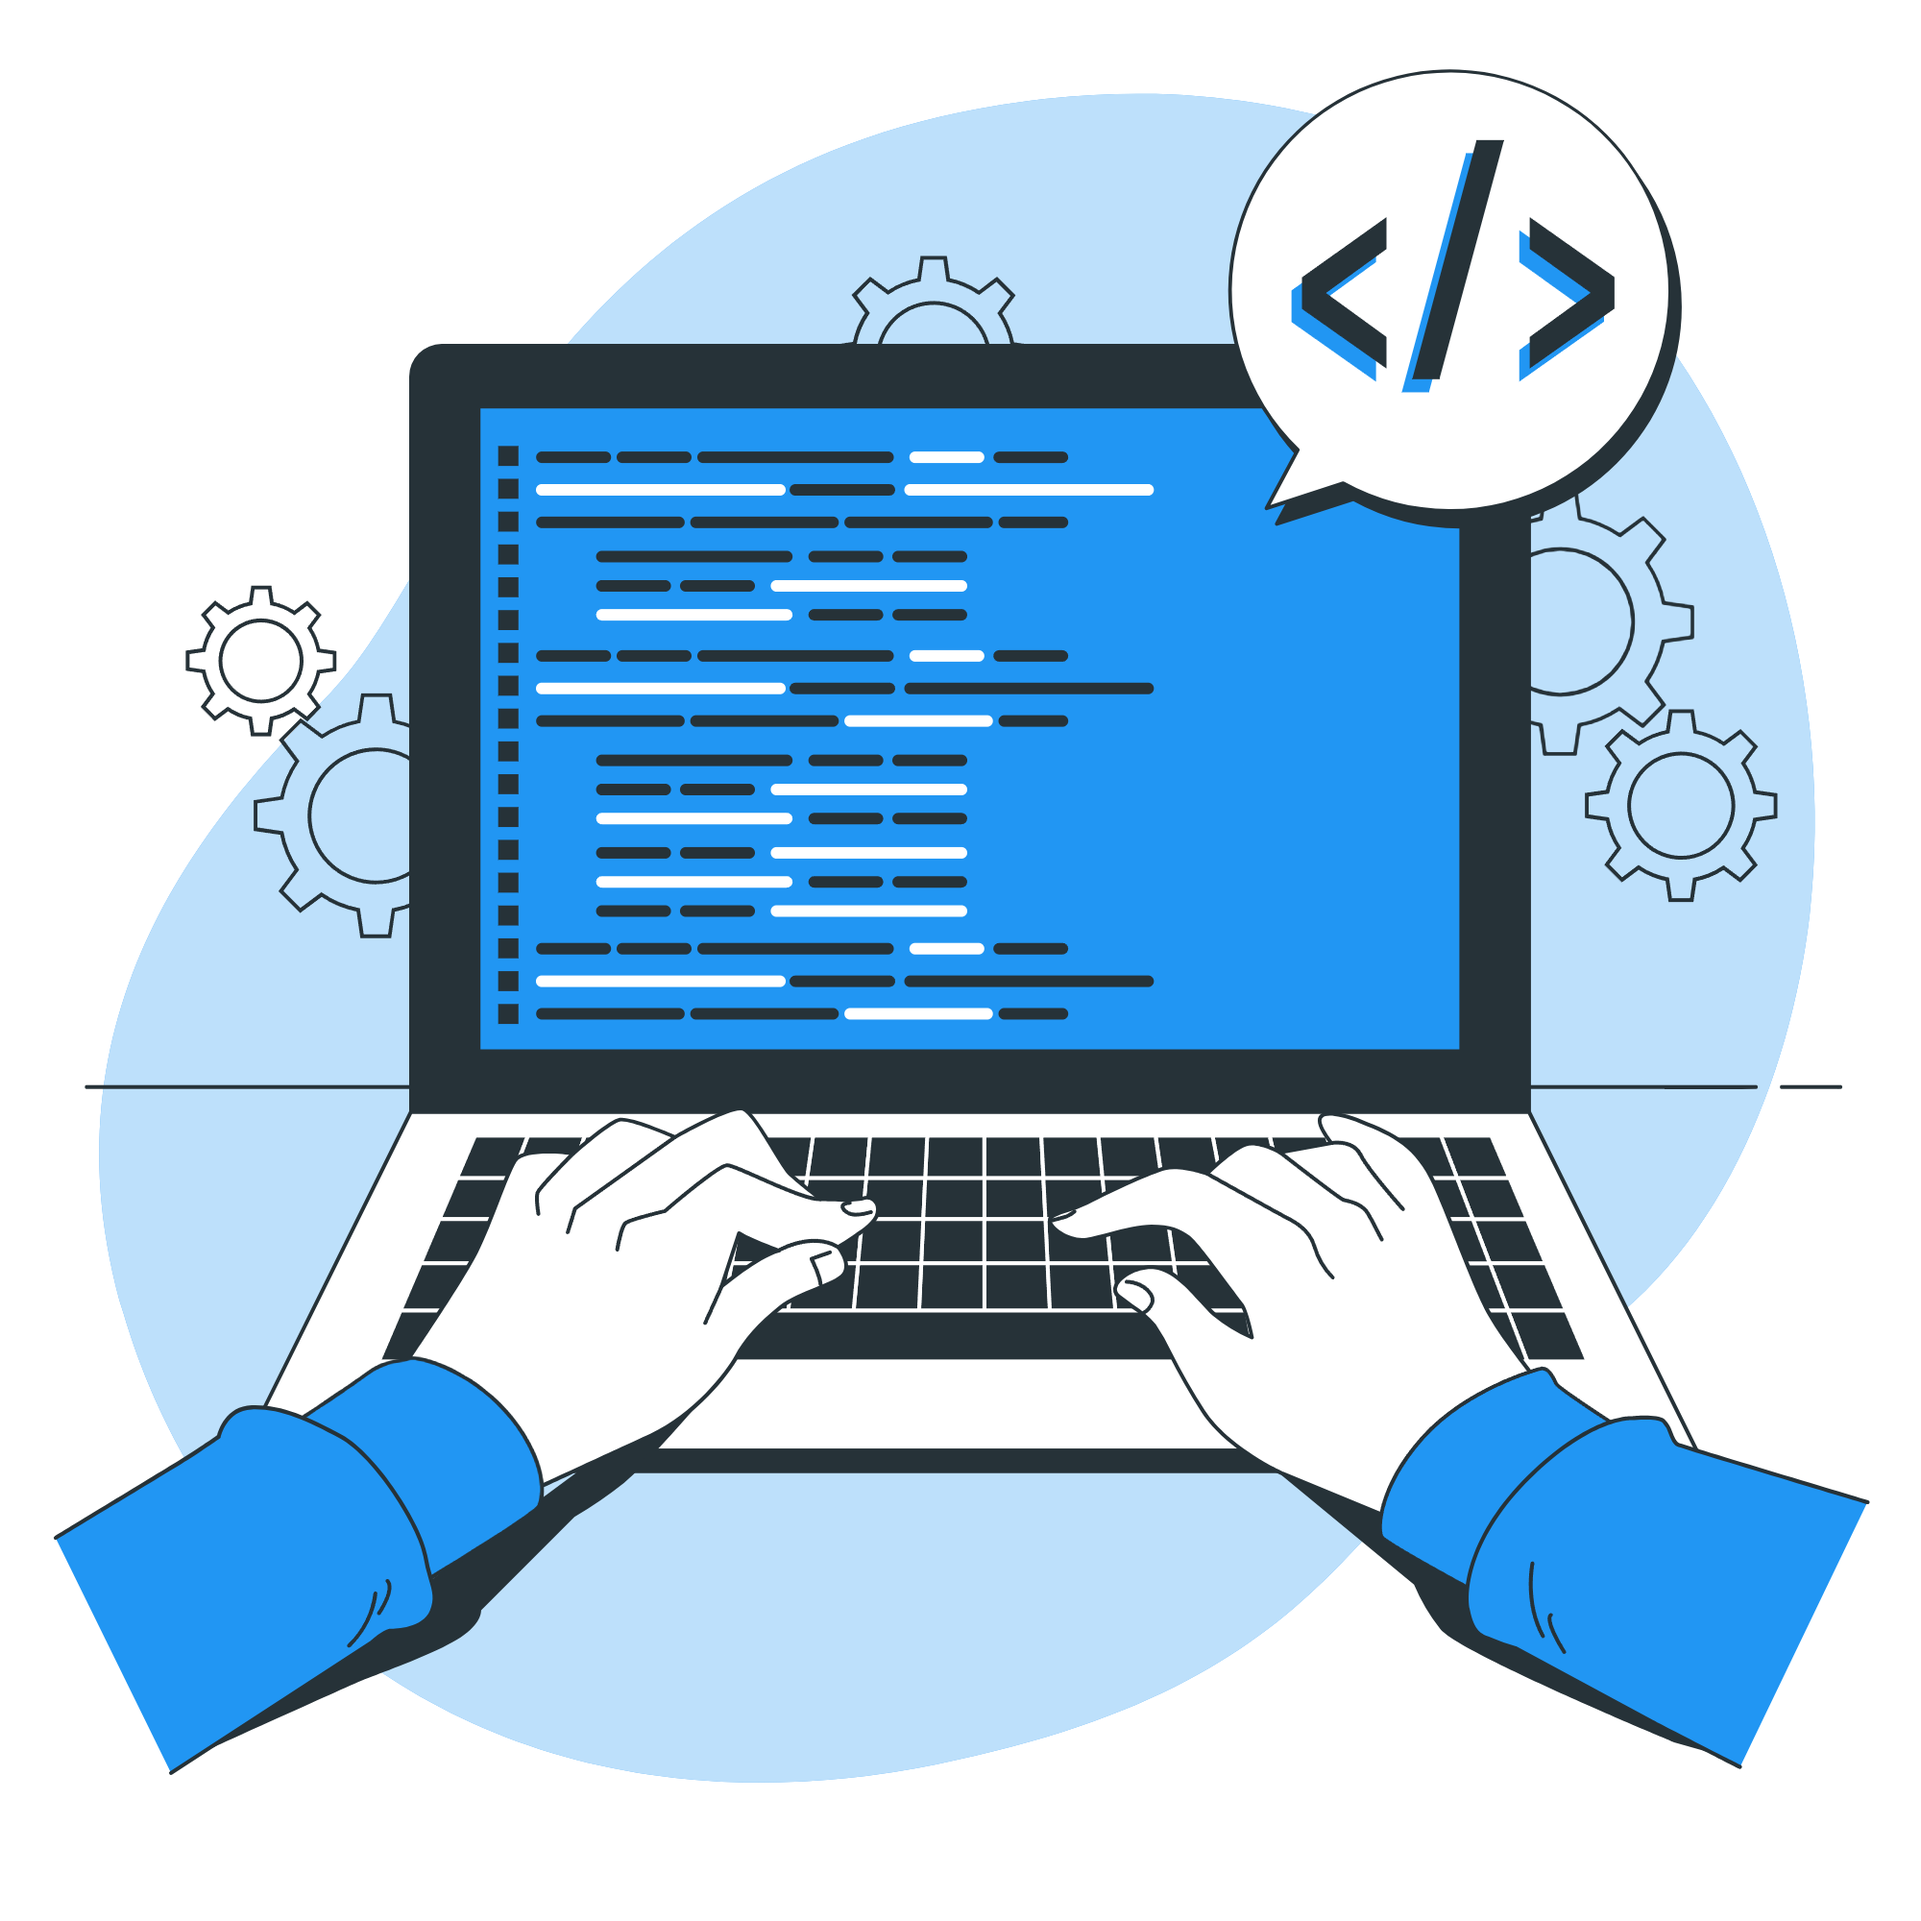
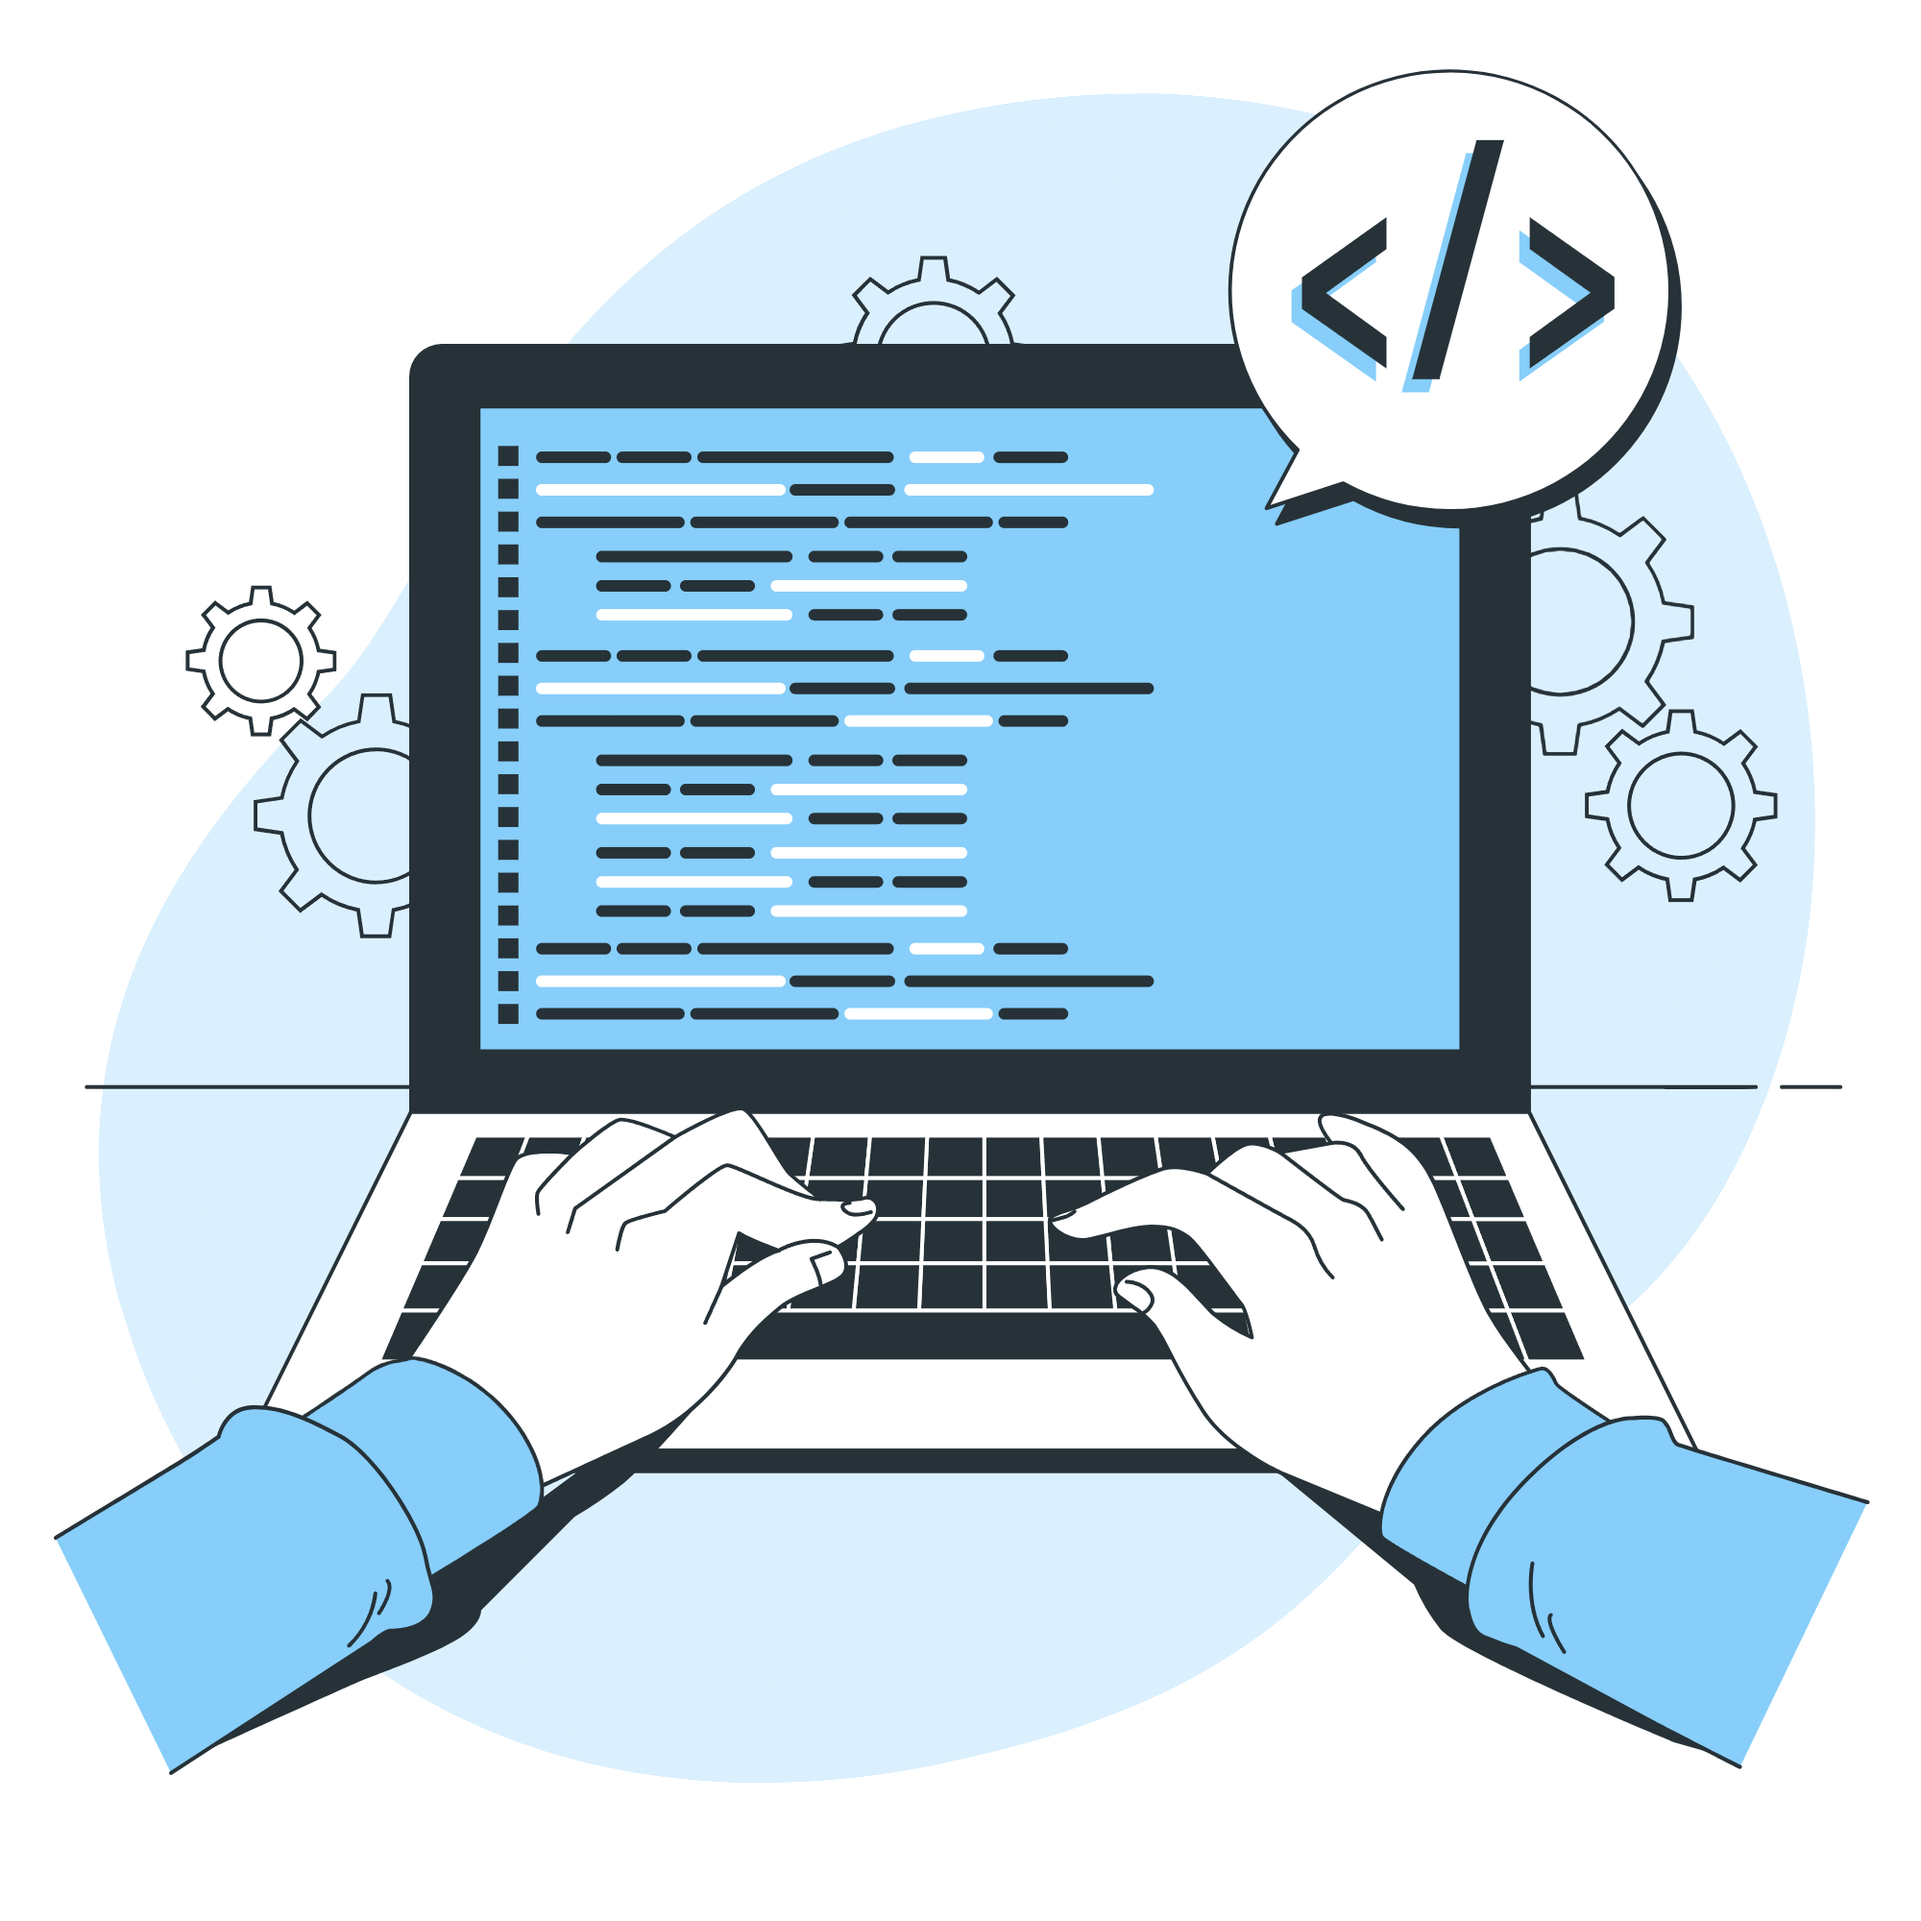
changement couleur image

diff --git a/src/components/Services.vue b/src/components/Services.vue
@@ -5,7 +5,7 @@
   <div class="row">
     <div class="col-md-3 col-sm-12">
       <q-card flat bordered class="q-ma-sm">
-        <img src="~assets/dev.gif" />
+        <img src="~assets/dev.png" />
 
         <q-card-section>
           <div class="text-h6" style="text-align: center">Développement</div>
@@ -20,7 +20,7 @@
 
     <div class="col-md-3 col-sm-12">
       <q-card flat bordered class="q-ma-sm">
-        <img src="~assets/referencement.gif" />
+        <img src="~assets/referencement.png" />
 
         <q-card-section>
           <div class="text-h6" style="text-align: center">Référencement</div>
@@ -34,7 +34,7 @@
 
     <div class="col-md-3 col-sm-12">
       <q-card flat bordered class="q-ma-sm">
-        <img src="~assets/admin.gif" />
+        <img src="~assets/admin.png" />
 
         <q-card-section>
           <div class="text-h6" style="text-align: center">Administration</div>
@@ -47,7 +47,7 @@
     </div>
     <div class="col-md-3 col-sm-12" style="text-align: center">
       <q-card flat bordered class="q-ma-sm">
-        <img src="~assets/web.gif" />
+        <img src="~assets/web.png" />
 
         <q-card-section>
           <div class="text-h6">Les solutions</div>
